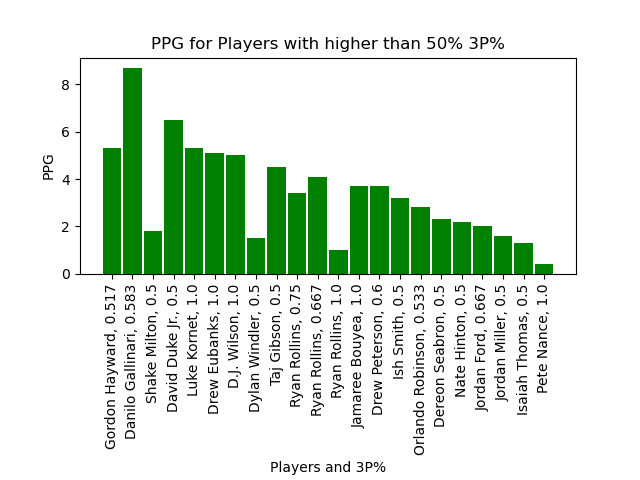
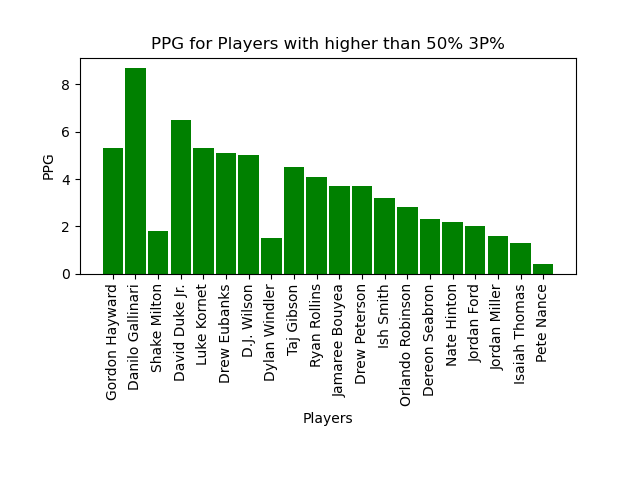
changed from pandas to polars

Changed region(s): [[0.1562, 0.1562, 0.875, 0.9375], [0.4062, 0.9375, 0.5938, 1.0]]

diff --git a/main.py b/main.py
@@ -1,13 +1,14 @@
 """main file with main functions"""
 
-import pandas as pd
+import polars as pl
 import matplotlib.pyplot as plt
 import markdownify as md
 from ydata_profiling import ProfileReport
 
 
 FILE_PATH = "NBA_24_stats.csv"
-df = pd.read_csv(FILE_PATH)
+df = pl.read_csv(FILE_PATH, ignore_errors=True)
+df_3p = pl.read_csv(FILE_PATH, ignore_errors=True).filter(pl.col("3P%") >= 0.5)
 
 
 def summary():
@@ -18,11 +19,10 @@ def summary():
 
 def points_plot():
     """provides visualization"""
-    accurate = df[df["3P%"] >= 0.5]
-    player_rank = accurate["Player"].astype(str) + ", " + accurate["3P%"].astype(str)
-    plt.bar(player_rank, accurate["PTS"], color="green", width=0.9)
+    # player_rank = df.select(pl.col("Player"))
+    plt.bar(df_3p["Player"], df_3p["PTS"], color="green", width=0.9)
     plt.xticks(rotation="vertical")
-    plt.xlabel("Players and 3P%")
+    plt.xlabel("Players")
     plt.ylabel("PPG")
     plt.title("PPG for Players with higher than 50% 3P%")
     plt.subplots_adjust(bottom=0.43)
@@ -40,4 +40,5 @@ def report():
 
 
 points_plot()
-report()
+summary()
+# report()

diff --git a/README.md b/README.md
@@ -25,10 +25,16 @@ Required Files
     - devcontainer.json
         - contains docker container for python 3 dependencies
 - main.py
-    - contains code to subtract two numbers
+    - contains code to use pandas to read dataset, generate summary statistics and visualization
 - test_main.py
     - contains code to test main.py file
 - hello.yml
     - provides the functionality to do CI runs
 - .gitignore
     - ignores unecessary files and programs to prevent installation conflicts
+
+Steps
+- set up github repository files such as requirements.txt, Makefile, devcontainer, hello.yml, etc.
+- create main.py file containing python script to load in CSV file, create summary statistics, plot visualization, and generate a summary report
+- test main.py file by making a test_main.py file
+- perform a CI/CD run verifying that the code has passed all the linters and tests
